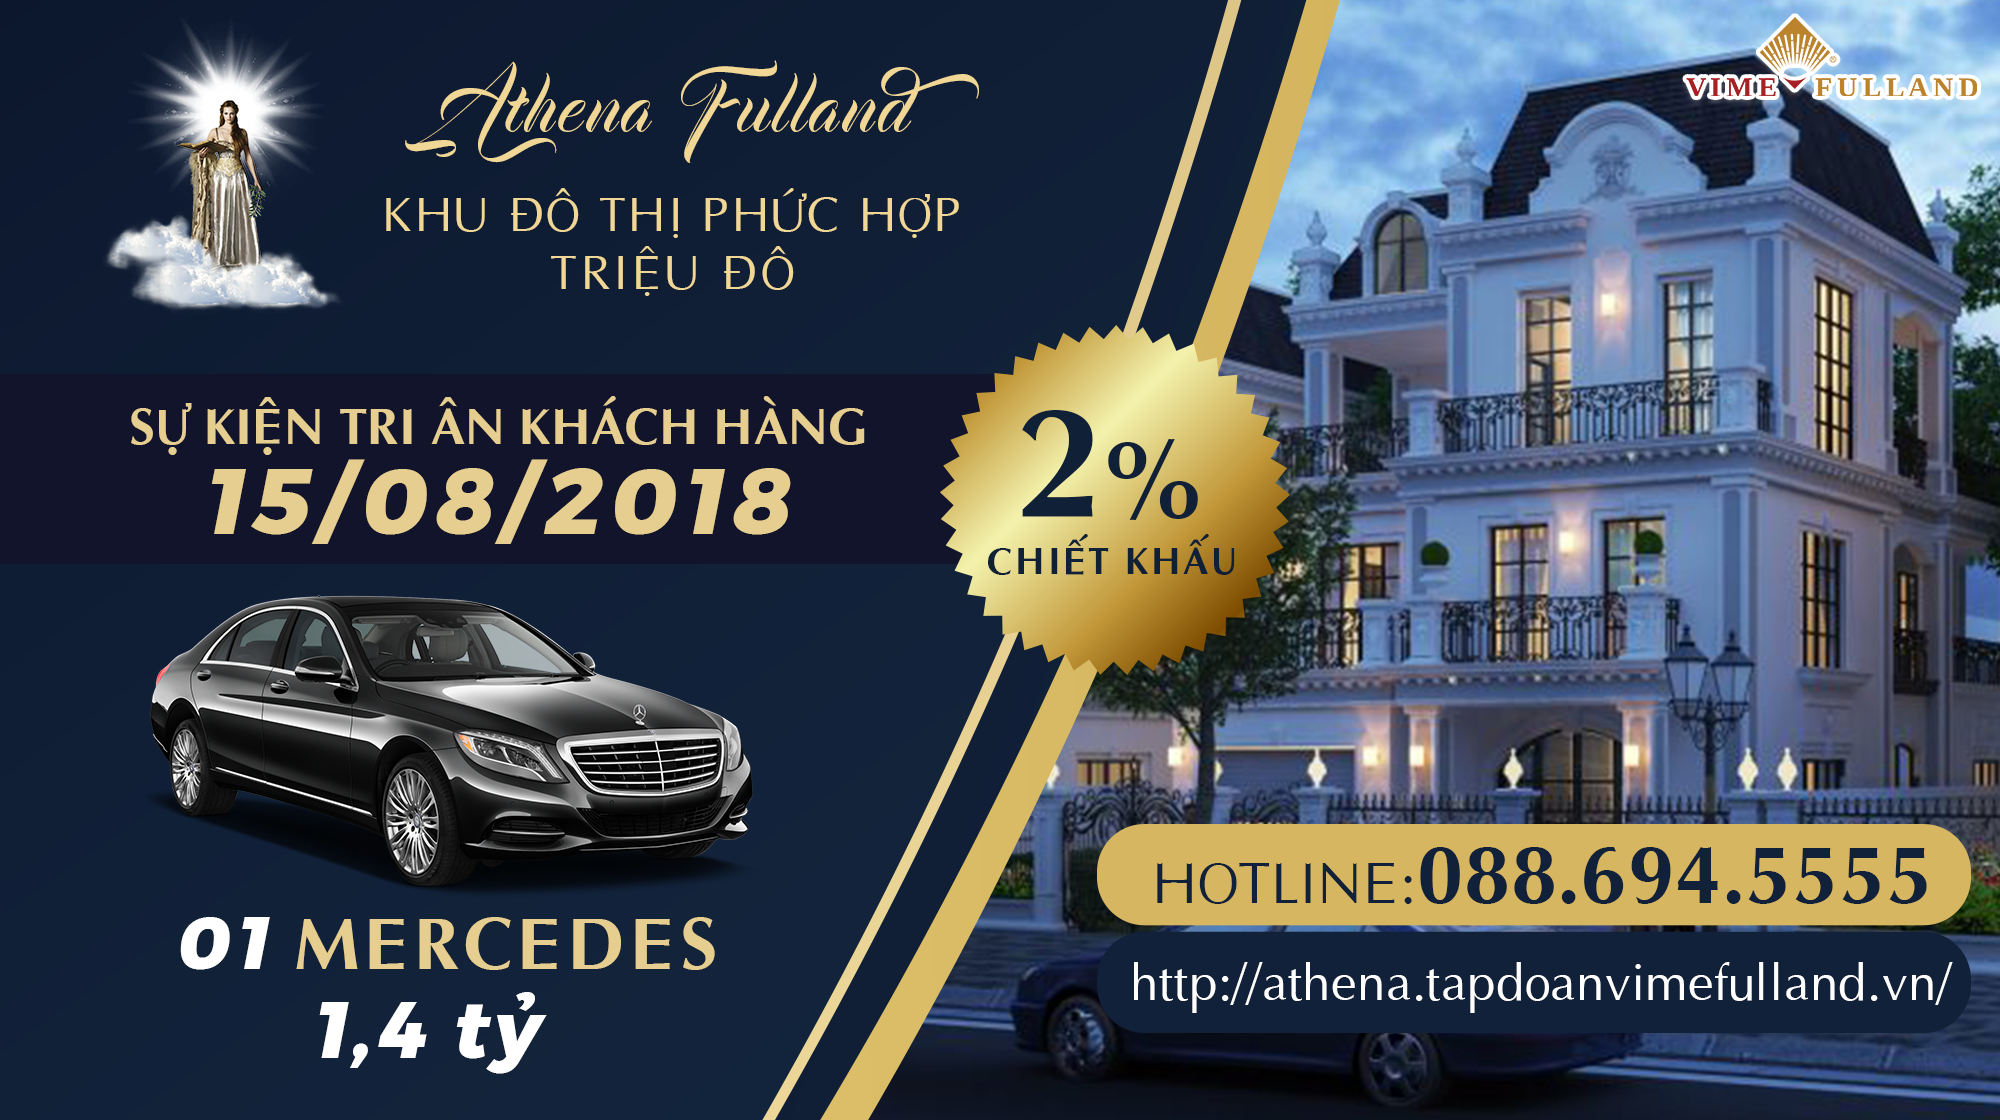
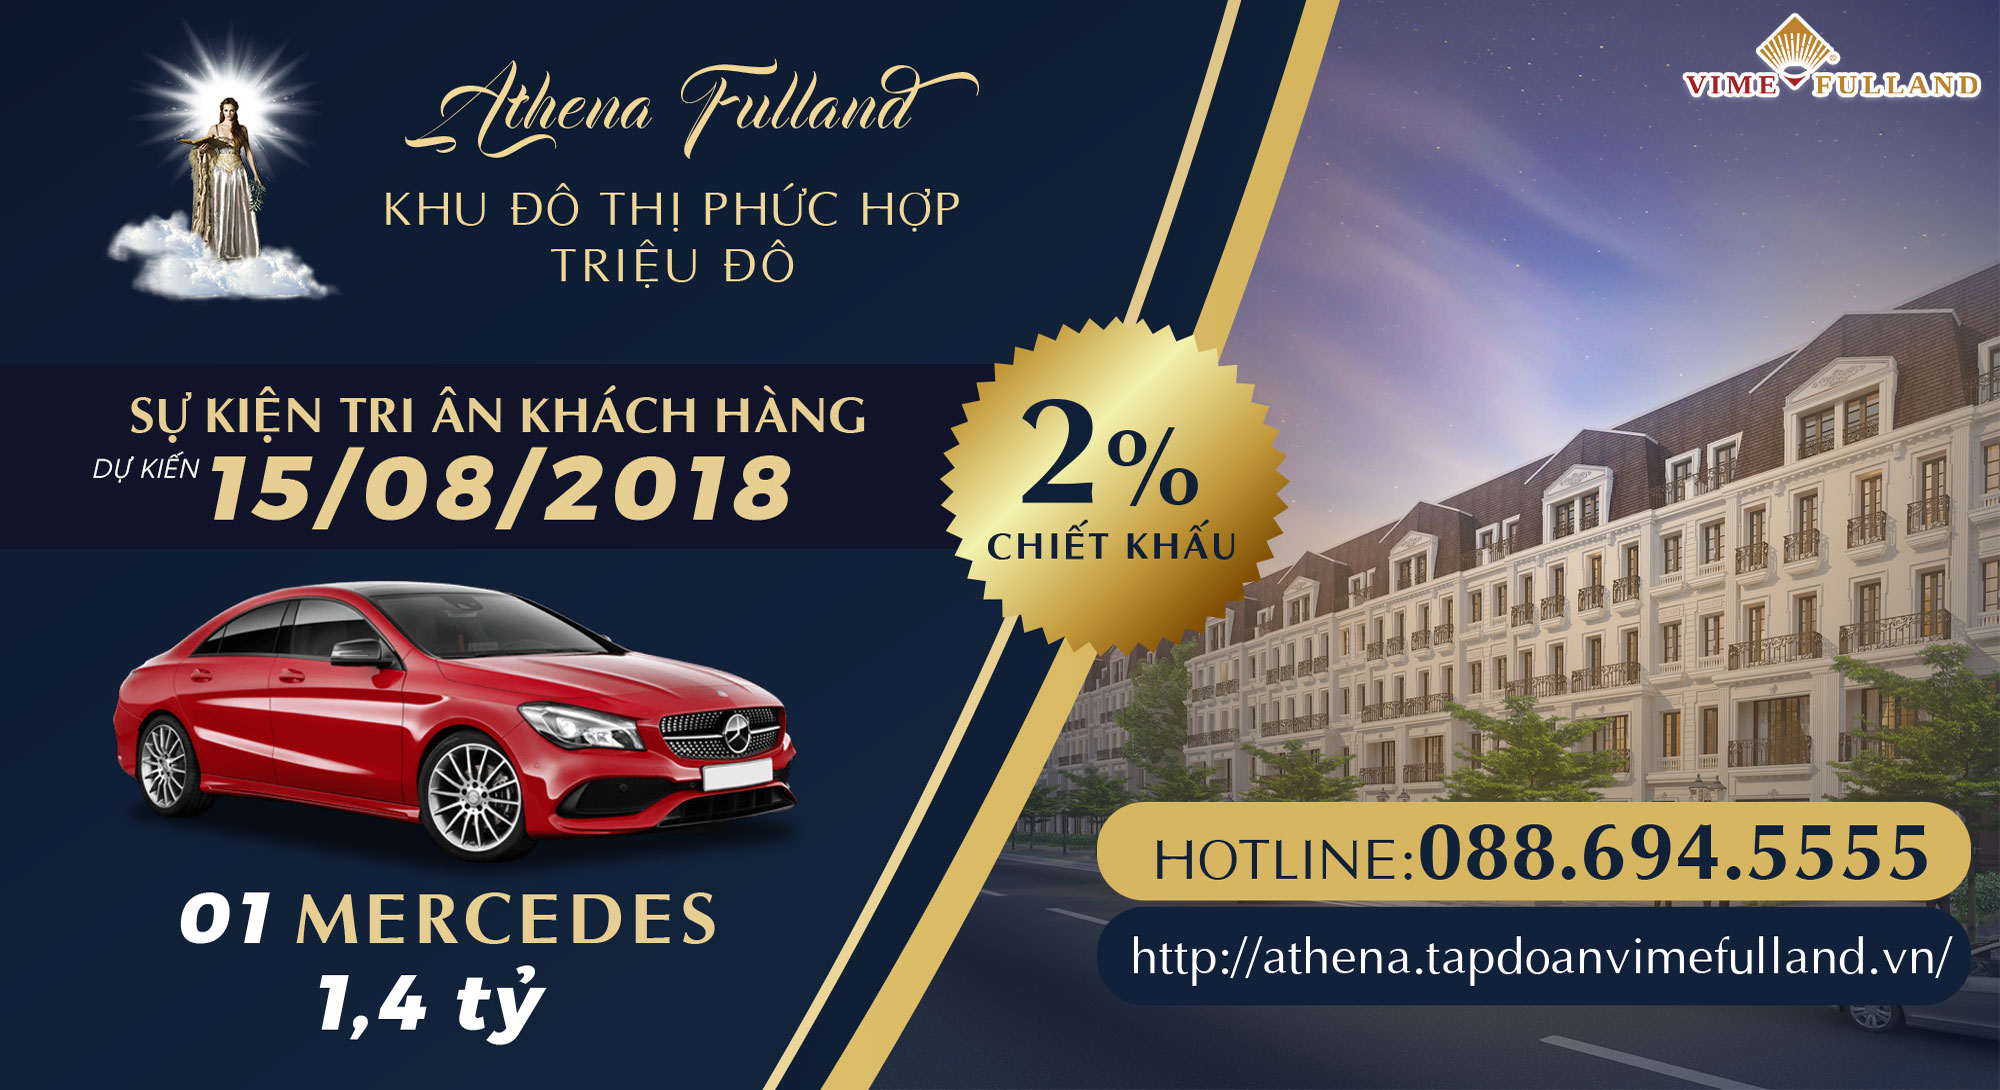
Darius: update

diff --git a/index.html b/index.html
@@ -48,7 +48,7 @@ redirect_from:
 					<!--INTRO-->
 					<!--NEWS-->
 					<div class="group-left"  data-name="news-home">
-						<div class="box-cover"  style="background-image:url({{ site.url }}/pictures/catalog/background/banner-athena-fulland-new-3.jpg);"></div>
+						<div class="box-cover"  style="background-image:url({{ site.url }}/pictures/catalog/background/banner-athena-fulland-new-1.jpg);"></div>
 					</div>
 					<!--NEWS-->
 					<!--Cộng đồng-->
